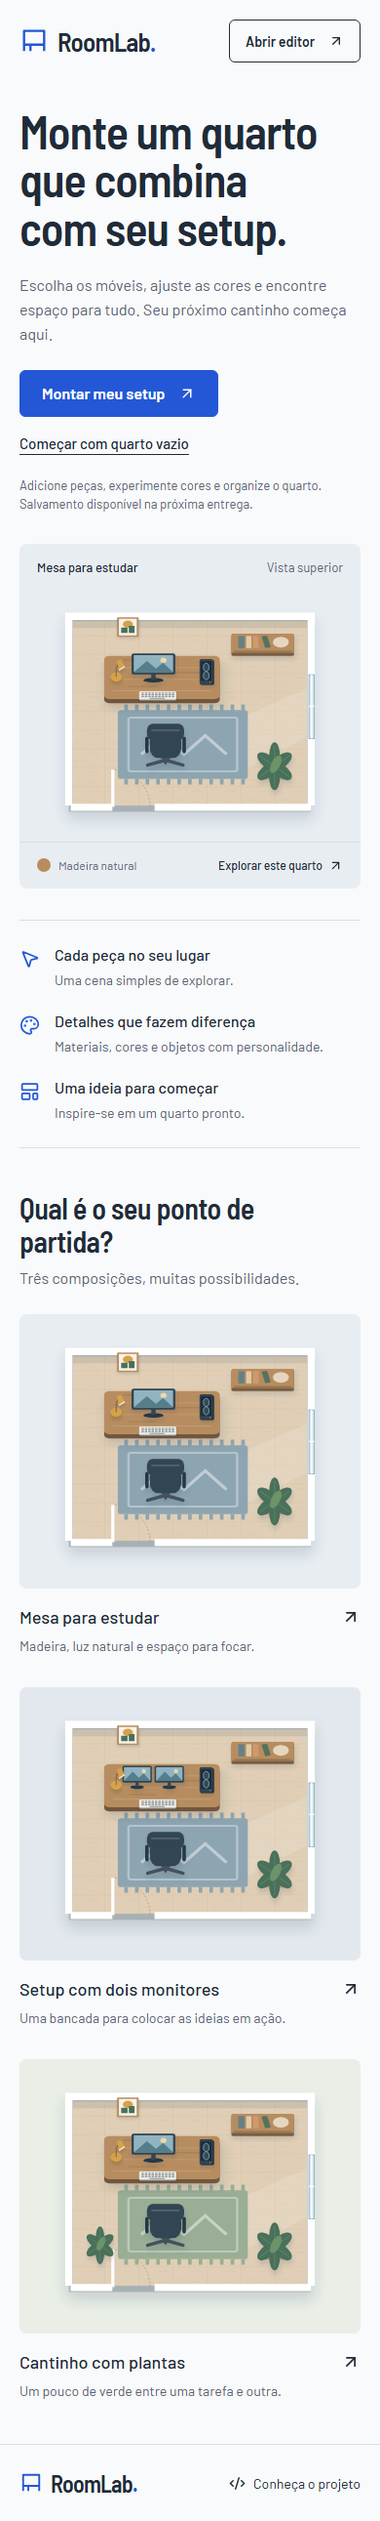
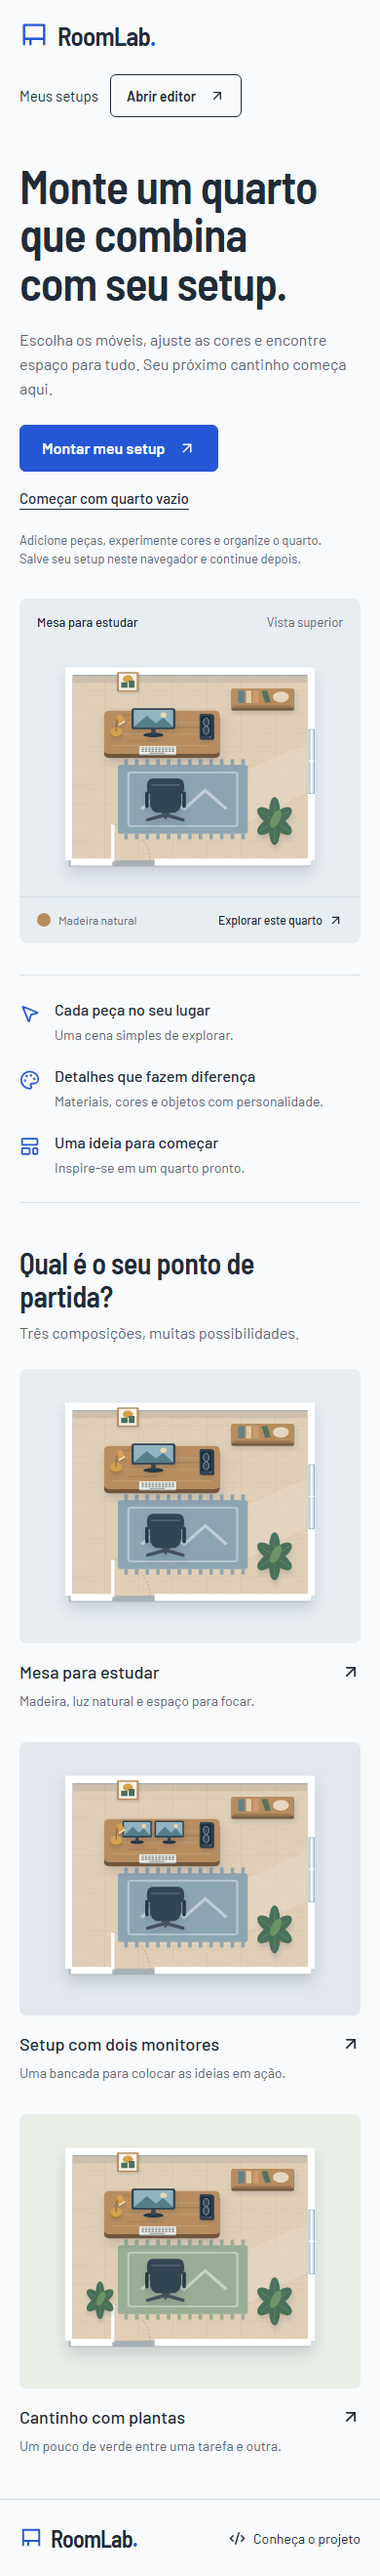
docs: explain local persistence and third delivery decisions

Changed region(s): [[0.0308, 0.0, 0.8923, 0.9915], [0.7385, 0.4028, 0.8308, 0.4338], [0.0923, 0.3408, 0.1231, 0.3718]]

diff --git a/docs/ENTREGA-03.md b/docs/ENTREGA-03.md
@@ -1,0 +1,75 @@
+# Terceira entrega: seus setups guardados
+
+Branch: `feat/local-setups`, criada a partir de `feat/room-editor`. A main não foi alterada. Não foram adicionadas dependências.
+
+## O que experimentar
+
+1. Abra o editor, adicione peças e personalize o quarto.
+2. Edite o campo Nome do setup e clique em Salvar.
+3. Recarregue a página: o mesmo documento será reaberto.
+4. Abra Meus setups para ver a miniatura, duplicar ou excluir com confirmação.
+5. Exporte JSON como backup. Importe esse arquivo na biblioteca para criar uma cópia independente.
+6. Baixe PNG para obter uma imagem da composição atual, sem seleção, grade ou medidas ilustrativas.
+
+O nome pode ter até 60 caracteres. A biblioteca aceita 30 setups, cada um com até 100 objetos. O histórico de desfazer é mantido depois de salvar, mas não depois de recarregar. Zoom, seleção e painel aberto não são gravados.
+
+## Direção visual
+
+Mantivemos a bancada fria `#e8edf2`, papel `#ffffff`, tinta `#202b38`, azul `#2457d6`, madeira `#b78d60` e verde `#48705a`. Barlow serve os controles e Barlow Semi Condensed os títulos. A biblioteca usa miniaturas da própria cena, nomes alinhados à esquerda e ações abaixo do desenho. A composição do quarto continua sendo o elemento principal.
+
+Na revisão, evitamos adicionar um painel genérico de estatísticas. Quantidade e data ajudam a reconhecer cada documento, sem decorar a página. O estado vazio usa o quarto sem móveis como convite para começar. Não adicionamos animações automáticas. A confirmação usa um diálogo nativo com foco no botão Cancelar e fechamento por Escape.
+
+Capturas revisadas: editor desktop/mobile, biblioteca vazia e biblioteca com setup desktop/mobile. A largura de 320 pixels também foi testada com nome de 60 caracteres. Um erro de quebra no cabeçalho foi corrigido dando uma linha inteira ao nome no celular.
+
+## Como os dados funcionam
+
+`src/features/setups/storage.ts` concentra leitura, validação, gravação e exclusão. A chave `roomlab.setups.v1` contém JSON com `version: 1` e uma lista de documentos. Cada documento guarda ID, nome, composição inicial, objetos, datas e uma revisão única.
+
+TypeScript ajuda enquanto escrevemos o programa, mas não garante que um arquivo importado seja válido. Por isso o parser recebe `unknown` e verifica versão, tipos, limites, IDs duplicados, números finitos, tipos do catálogo e cores hexadecimais. Reconstrói somente os campos reconhecidos e usa a geometria existente para ajustar peças aos limites do quarto.
+
+Dados inválidos no armazenamento não são apagados nem substituídos automaticamente. A interface explica o erro e permite atualizar a lista após recuperação. Falhas de leitura, bloqueio ou falta de espaço não derrubam o editor nem mudam o indicador para salvo.
+
+Antes de atualizar um documento, comparamos a revisão carregada pelo editor com a revisão atual do armazenamento. Se outra aba salvou ou excluiu esse setup, a gravação é recusada e Salvar cópia preserva a edição local. A biblioteca acompanha eventos de armazenamento de outras abas e verifica os dados ao voltar a ficar visível.
+
+Essa comparação detecta conflitos sequenciais; localStorage não oferece uma transação entre ler e escrever. Duas gravações exatamente simultâneas ainda podem competir. Sincronização transacional precisa de outra solução.
+
+## Estado da edição e navegação
+
+`useSetupSave.ts` compara nome e objetos atuais com o último snapshot salvo. Desfazer até esse snapshot remove o aviso de alterações pendentes. Salvar atualiza o baseline sem apagar o histórico do editor.
+
+Adotamos salvamento manual nesta entrega, revisando a proposta inicial de automático. Isso mantém uma ação explícita para atualizar o documento e um fluxo claro para resolver conflitos com Salvar cópia. Ainda não há rascunho automático: alterações não salvas podem ser perdidas.
+
+O roteador foi convertido para a API de dados do React Router para usar `useBlocker`. Navegação interna, inclusive o botão Voltar do navegador, abre um diálogo quando há mudanças pendentes. O evento `beforeunload` é registrado somente enquanto há alterações. O aviso ao fechar ou recarregar depende do navegador e não é garantido em todos os cenários, especialmente no celular.
+
+Após o primeiro salvamento, a URL recebe `?setup=<id>`. Uma chave de sessão no estado da navegação mantém a mesma instância do editor durante esse ajuste, preservando a seleção e o histórico. Ao recarregar ou abrir pela biblioteca, o documento é carregado do armazenamento.
+
+## Backups e imagem
+
+JSON exporta um documento da edição atual, mesmo antes de salvar. Importação aceita um documento válido de até 200.000 bytes e cria novos ID, revisão e datas, preservando o original. Um arquivo inválido deixa os setups existentes intactos. Isso permite transferir uma composição entre dispositivos por arquivo.
+
+PNG usa uma segunda renderização estática do componente RoomScene, sem interação ou seleção. Serializamos o SVG, desenhamos em canvas e baixamos uma imagem de 1520 × 1220 pixels, mantendo a proporção do desenho. A composição usa formas locais, sem imagens externas. Exportar não salva alterações no navegador.
+
+## Verificação
+
+- 11 testes de lógica aprovados, incluindo persistência, versão inválida, dados inseguros, quota, limite da biblioteca e conflitos.
+- 51 testes de navegador aprovados em Chromium desktop, tablet e celular. Seis combinações de testes específicos de toque ou desktop são ignoradas nos perfis não aplicáveis.
+- Fluxos de salvar/recarregar, renomear, copiar, excluir/cancelar, navegação pendente, conflito entre abas, importação repetida, PNG, nome vazio e armazenamento bloqueado.
+- Testes anteriores de movimento, resize, camadas, histórico, zoom e toque continuam passando.
+- Build com checagem de tipos, ESLint e formatação verificados.
+- PNG exportado inspecionado visualmente, além da verificação de assinatura, dimensões e tamanho do arquivo.
+
+Os testes usam emulação de viewport e toque. Safari, Firefox e aparelhos físicos ainda não foram validados.
+
+## Exercício para aprender
+
+Exporte um setup, abra o JSON e localize `objects`. Mude uma cor hex válida e importe o arquivo. Depois tente uma cor inválida e veja a validação recusar o documento. Explique por que importar cria uma cópia em vez de atualizar o ID original e por que o arquivo não contém o histórico de desfazer.
+
+Em uma entrevista, a decisão central é separar o documento persistente do estado temporário da interface e validar os dados na entrada. Salvar não é apenas chamar setItem: envolve falhas, versão, feedback e continuidade da edição.
+
+## Limites e próxima entrega
+
+Os dados pertencem ao navegador e à origem do site, incluindo protocolo, host e porta. A prévia local e uma futura demo hospedada terão bibliotecas diferentes. Limpar dados do site ou encerrar navegação privada pode remover os setups. JSON é o backup portátil desta versão.
+
+Uma URL local com ID não é um link público. Compartilhamento real precisa de um serviço que receba e disponibilize snapshots a outro navegador. Essa será a próxima entrega, com estados de carregamento, erro e link inexistente.
+
+Referências consultadas: [localStorage no MDN](https://developer.mozilla.org/en-US/docs/Web/API/Window/localStorage), [beforeunload no MDN](https://developer.mozilla.org/en-US/docs/Web/API/Window/beforeunload_event) e [useBlocker no React Router](https://reactrouter.com/api/hooks/useBlocker).

diff --git a/README.md b/README.md
@@ -2,7 +2,7 @@
 
 Projeto de portfólio front-end: um editor visual para montar e personalizar um quarto com um setup de trabalho ou jogos.
 
-Status: segunda entrega implementada, com editor funcional. Desenvolvimento em `feat/room-editor`.
+Status: terceira entrega implementada, com editor e biblioteca de setups locais. Desenvolvimento em `feat/local-setups`.
 
 ![Home do RoomLab](docs/screenshots/home-desktop.png)
 
@@ -16,8 +16,11 @@ Status: segunda entrega implementada, com editor funcional. Desenvolvimento em `
 - Mover com mouse/toque ou teclado, girar, redimensionar e trocar cores.
 - Duplicar, excluir, ordenar camadas, alinhar à grade e desfazer/refazer.
 - Layout de três áreas no desktop e painéis alternáveis no mobile.
+- Nomear, salvar, reabrir, duplicar e excluir setups locais com miniaturas.
+- Exportar/importar backup JSON validado e baixar PNG da composição.
+- Aviso de edições pendentes, erros de armazenamento e conflitos entre versões de abas.
 
-As alterações ficam em memória nesta sessão. Recarregar ou sair do editor descarta a edição. Salvar, exportar e compartilhar serão as próximas entregas. As dimensões do quarto são ilustrativas; posições e tamanhos dos objetos usam unidades do desenho.
+Use **Salvar** após editar. Os setups ficam no armazenamento deste navegador, limitados a 30 quartos de até 100 objetos cada. Recarregar reabre a última versão salva; limpar os dados do site exclui os setups. Exporte JSON para guardar um backup ou levar a outro dispositivo. As URLs locais não são links públicos. Compartilhamento será a próxima etapa. As dimensões do quarto são ilustrativas; posições e tamanhos dos objetos usam unidades do desenho.
 
 ## Rodar localmente
 
@@ -28,7 +31,7 @@ npm ci
 npm run dev
 ```
 
-Abra o endereço mostrado no terminal. As rotas principais são `/` e `/editor`. Os exemplos também podem ser abertos diretamente em `/editor?scene=study`, `dual`, `plants` ou `empty`.
+Abra o endereço mostrado no terminal. As rotas principais são `/`, `/editor` e `/setups`. Os exemplos também podem ser abertos diretamente em `/editor?scene=study`, `dual`, `plants` ou `empty`. Um setup salvo abre em `/editor?setup=<id>` no mesmo navegador e endereço do site.
 
 ## Verificar
 
@@ -59,6 +62,7 @@ Demonstrar interfaces responsivas, manipulação gráfica, estado complexo, aces
 - [Fluxo de desenvolvimento e aprendizado](docs/DESENVOLVIMENTO.md)
 - [Primeira entrega: decisões, verificação e guia de aprendizado](docs/ENTREGA-01.md)
 - [Segunda entrega: geometria, interações e histórico](docs/ENTREGA-02.md)
+- [Terceira entrega: persistência, biblioteca e backups](docs/ENTREGA-03.md)
 - [Créditos dos assets](docs/CREDITOS.md)
 
 ## Versionamento

diff --git a/docs/PLANO.md b/docs/PLANO.md
@@ -22,7 +22,9 @@ Critério de conclusão: montar uma cena com 20 objetos; transformações corret
 
 ### 3. Persistência local
 
-Salvar automaticamente, nomear setup, listar salvos, reabrir, importar/exportar JSON validado e exportar PNG. Cena inicial vazia e exemplos prontos. Indicadores “Salvando”, “Salvo neste navegador” e falha de salvamento.
+Nomear setup, salvar localmente, listar salvos, reabrir, importar/exportar JSON validado e exportar PNG. Cena inicial vazia e exemplos prontos. Indicadores de alterações pendentes, “Salvo neste navegador” e falha de salvamento.
+
+Decisão da terceira entrega: salvamento explícito pelo botão Salvar. A gravação local é síncrona, então não há estado artificial de carregamento. O plano inicial previa salvamento automático; nesta versão, o usuário escolhe quando atualizar o documento, com aviso ao sair com edições pendentes. Ver justificativa e limites em [ENTREGA-03.md](ENTREGA-03.md).
 
 Critério de conclusão: recarregar preserva a cena; dados inválidos não derrubam o aplicativo; falhas de armazenamento são comunicadas; exportação não inclui alças de seleção. Salvamento local não promete disponibilidade em outros dispositivos.
 
@@ -88,4 +90,4 @@ A primeira entrega foi implementada em `feat/app-foundation`, com home, estrutur
 
 A segunda entrega está implementada em `feat/room-editor`, com adição, manipulação, cores, camadas e histórico. Foram mantidos SVG nativo e `useReducer`, conforme a decisão e as limitações em [ENTREGA-02.md](ENTREGA-02.md).
 
-Próximo passo: `feat/local-setups`, com persistência local, nomes, biblioteca de salvos e exportação. Links públicos serão implementados depois dessa etapa.
+A terceira entrega está implementada em `feat/local-setups`, com persistência local, nomes, biblioteca, backups JSON e exportação PNG. Próximo passo: `feat/setup-sharing`, com snapshots públicos e visualização compartilhada. Essa etapa requer definir o serviço de armazenamento e a hospedagem.

diff --git a/docs/DESENVOLVIMENTO.md b/docs/DESENVOLVIMENTO.md
@@ -25,7 +25,7 @@ Fluxo: criar branch → implementar uma responsabilidade → verificar → revis
 
 Branches isolam mudanças, mas não impedem todos os erros. No GitHub, configurar regra de proteção da main: exigir pull request e checks de lint, tipos, testes essenciais e build. A disponibilidade de regras depende do repositório e da conta. Essa proteção não está configurada só porque as branches locais existem.
 
-Não há remoto configurado nesta fase. Quando for informado/criado o repositório GitHub, conectar, enviar as branches e configurar o fluxo de PRs. Nunca versionar `.env` com credenciais; manter apenas exemplo com nomes de variáveis.
+O remoto está conectado a [samuelsce/RoomLab](https://github.com/samuelsce/RoomLab). As entregas são enviadas em branches específicas; a main ainda mantém a base inicial. Nunca versionar `.env` com credenciais; manter apenas exemplo com nomes de variáveis.
 
 ## O que aprender em cada entrega
 
@@ -44,4 +44,4 @@ Os exercícios acompanham entregas concretas, sem bloquear o desenvolvimento. Re
 
 ## Situação desta entrega
 
-Planejamento e duas entregas documentados. A fundação está em `feat/app-foundation` e o editor funcional em `feat/room-editor`; detalhes em [ENTREGA-01.md](ENTREGA-01.md) e [ENTREGA-02.md](ENTREGA-02.md). Persistência, compartilhamento, CI e hospedagem permanecem como próximas etapas. A direção da skill `frontend-design` foi mantida e revisada por screenshots.
+Planejamento e três entregas documentados. A fundação está em `feat/app-foundation`, o editor funcional em `feat/room-editor` e a persistência em `feat/local-setups`. Detalhes em [ENTREGA-01.md](ENTREGA-01.md), [ENTREGA-02.md](ENTREGA-02.md) e [ENTREGA-03.md](ENTREGA-03.md). Compartilhamento, CI e hospedagem permanecem como próximas etapas. A direção da skill `frontend-design` foi mantida e revisada por screenshots.
